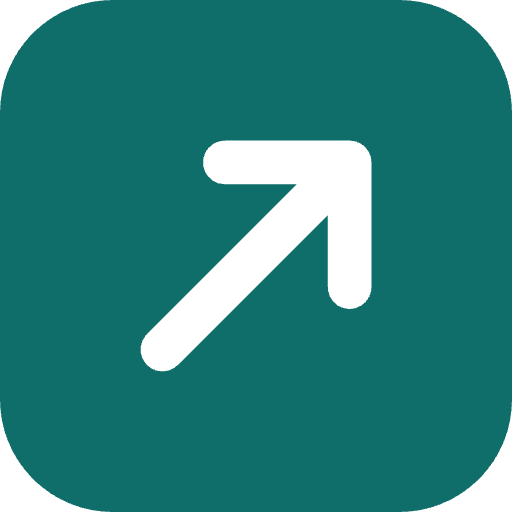
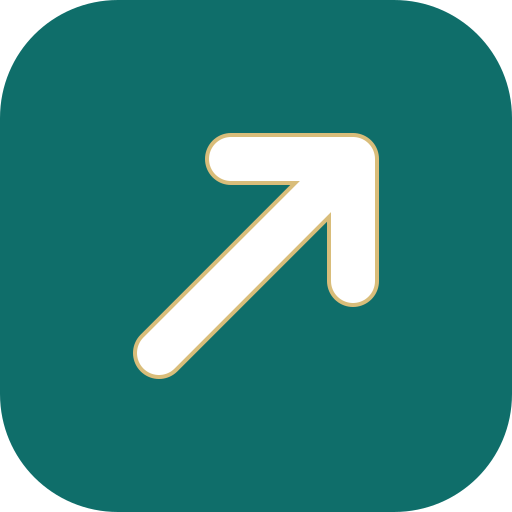
4.58.5

diff --git a/index.html b/index.html
@@ -5,7 +5,7 @@
   <meta name="viewport" content="width=device-width, initial-scale=1">
   <meta name="theme-color" content="#F7F6F2">
   <meta name="color-scheme" content="only light">
-<meta name="darkreader-lock"><meta name="darkreader-lock">
+  <meta name="darkreader-lock">
   <title>MyTrip · Plan, share &amp; split trips together</title>
   <link rel="preconnect" href="https://script.google.com" crossorigin>
   <link rel="preconnect" href="https://script.googleusercontent.com" crossorigin>
@@ -21,7 +21,7 @@
   <link rel="preconnect" href="https://fonts.gstatic.com" crossorigin>
   <link rel="preload" href="https://fonts.googleapis.com/css2?family=Plus+Jakarta+Sans:wght@400;500;600;700;800&amp;display=swap" as="style" onload="this.onload=null;this.rel='stylesheet'">
   <noscript><link href="https://fonts.googleapis.com/css2?family=Plus+Jakarta+Sans:wght@400;500;600;700;800&amp;display=swap" rel="stylesheet"></noscript>
-  <link rel="stylesheet" href="app.css?v=4.58.4">
+  <link rel="stylesheet" href="app.css?v=4.58.5">
 </head>
 <body>
   <a class="skip-link" href="#view">Skip to trip content</a>
@@ -49,7 +49,7 @@
             <header><i>◆</i><div><h3 id="sharedAccessTitle">Open one trip with shared access</h3><p>Use the trip code and shared trip password supplied for that trip.</p></div></header>
             <form id="joinForm" class="visible-shared-form"><div class="shared-field-grid"><label>Trip code<input name="tripId" id="joinTripId" placeholder="e.g. GOA26" autocomplete="off" required></label><label>Shared trip password<input name="pin" type="password" maxlength="64" autocomplete="current-password" placeholder="Enter shared password" required></label></div><button class="secondary" type="submit">Open this trip →</button></form>
           </section>
-          <div class="version-strip" aria-label="Application versions"><span>FE <b id="loginFrontendVersion">v4.58.4</b></span><span>BE <b id="loginBackendVersion">Not connected</b></span></div>
+          <div class="version-strip" aria-label="Application versions"><span>FE <b id="loginFrontendVersion">v4.58.5</b></span><span>BE <b id="loginBackendVersion">Not connected</b></span></div>
           <a class="cache-clear-button" id="clearAppCache" href="repair.html?auto=1">↻ Clear cache &amp; update</a>
           <details class="login-more-options"><summary>Other setup tools</summary><div>
             <button class="demo-button unified-demo" id="previewDemoButton" type="button">Preview dashboard demo</button>
@@ -63,7 +63,7 @@
   </section>
 
   <section class="account-hub hidden" id="accountHub">
-    <header class="account-hub-topbar"><a class="brand" href="#"><i>↗</i> mytrip</a><div><span id="hubAccountLabel">MY ACCOUNT</span><b id="hubVersion">FE v4.58.4 · BE —</b></div><time class="header-date-time" id="hubDateTime" aria-label="Current date and time">◆ Loading date and time…</time><span class="connection-status" id="hubConnectionStatus" role="status"><i></i><b>Online</b></span><button class="account-signout" id="hubSignOut" type="button">↪ Sign out</button></header>
+    <header class="account-hub-topbar"><a class="brand" href="#"><i>↗</i> mytrip</a><div><span id="hubAccountLabel">MY ACCOUNT</span><b id="hubVersion">FE v4.58.5 · BE —</b></div><time class="header-date-time" id="hubDateTime" aria-label="Current date and time">◆ Loading date and time…</time><span class="connection-status" id="hubConnectionStatus" role="status"><i></i><b>Online</b></span><button class="account-signout" id="hubSignOut" type="button">↪ Sign out</button></header>
     <main id="accountHubContent"></main>
   </section>
 
@@ -104,7 +104,7 @@
             <button type="button" id="textSizeUp" aria-label="Larger text">A+</button>
           </span>
           <span class="connection-status" id="dashboardConnectionStatus" role="status"><i></i><b>Online</b></span>
-          <span class="version-badge" id="dashboardVersion">FE v4.58.4 · BE —</span>
+          <span class="version-badge" id="dashboardVersion">FE v4.58.5 · BE —</span>
           <button class="all-trips" id="allTripsButton">◆ All trips</button>
           <span class="access-badge" id="accessBadge">ADMINISTRATOR</span>
           <div class="avatars" id="topAvatars"></div>
@@ -153,8 +153,8 @@
   <div class="toast hidden" id="toast" role="status"></div>
   <section class="print-area" id="printArea"></section>
 
-  <script defer src="config.js?v=4.58.4"></script>
-  <script defer src="app.js?v=4.58.4"></script>
+  <script defer src="config.js?v=4.58.5"></script>
+  <script defer src="app.js?v=4.58.5"></script>
 <nav class="mt-tabbar" id="mtTabbar" aria-label="Main" hidden>
       <button type="button" data-tab="overview" class="active"><i data-icon="overview"></i><span>Today</span></button>
       <button type="button" data-tab="itinerary"><i data-icon="itinerary"></i><span>Plan</span></button>

diff --git a/app.js b/app.js
@@ -6,8 +6,8 @@
   const savedUsernameStorageKey = "mytrip_saved_username_v2";
   const legacySavedLoginStorageKey = "mytrip_saved_account_login_v1";
   const obsoleteTabPasswordStorageKey = "mytrip_tab_password_v1";
-  const frontendVersion = "4.58.4";
-  const requiredBackendVersion = "4.15.0";
+  const frontendVersion = "4.58.5";
+  const requiredBackendVersion = "4.26.0";
   const validApiUrl = (value) => /^https:\/\/script\.google\.com\/macros\/s\/[A-Za-z0-9_-]+\/exec$/.test(String(value || "").trim());
   function readStoredApiUrl() { try { return localStorage.getItem(apiStorageKey) || ""; } catch { return ""; } }
   function saveStoredApiUrl(value) { try { localStorage.setItem(apiStorageKey, value); } catch {} }
@@ -3404,7 +3404,7 @@
   }
 
   function showBackendSetup(afterConnect) {
-    showModal("Connect Google backend", `<form class="modal-form" id="backendForm"><div class="setup-note"><i>G</i><div><b>MyTrip backend v4.6.0 account build required</b><p>Replace Apps Script <code>Code.gs</code>, run <code>setupMyTrip()</code>, and deploy a <b>New version</b>. This enables common login, traveller trip-creation permission, the Drive photo gallery and the <code>StickyNoteDiary</code> Google Sheet.</p></div></div><label>Google Apps Script Web App URL<input name="apiUrl" type="url" value="${esc(apiUrl)}" placeholder="https://script.google.com/macros/s/…/exec" autocomplete="url" required></label><p class="form-help">Use the deployed <b>/exec</b> URL, not the testing <b>/dev</b> URL. Account login, traveller credentials, photo gallery, version and Sticky Note Diary capabilities are checked before saving.</p><a class="setup-guide-link" href="SETUP-GUIDE.md" target="_blank" rel="noreferrer">Open the Google setup guide ↗</a><div class="form-actions"><button type="button" data-cancel>Cancel</button><button type="submit">Test and connect</button></div></form>`);
+    showModal("Connect Google backend", `<form class="modal-form" id="backendForm"><div class="setup-note"><i>G</i><div><b>MyTrip backend v${requiredBackendVersion} or newer required</b><p>Replace Apps Script <code>Code.gs</code>, run <code>setupMyTrip()</code>, and deploy a <b>New version</b>. This enables common login, traveller trip-creation permission, the Drive photo gallery, settlement records and the <code>StickyNoteDiary</code> Google Sheet.</p></div></div><label>Google Apps Script Web App URL<input name="apiUrl" type="url" value="${esc(apiUrl)}" placeholder="https://script.google.com/macros/s/…/exec" autocomplete="url" required></label><p class="form-help">Use the deployed <b>/exec</b> URL, not the testing <b>/dev</b> URL. Account login, traveller credentials, photo gallery, settlement, version and Sticky Note Diary capabilities are checked before saving.</p><a class="setup-guide-link" href="SETUP-GUIDE.md" target="_blank" rel="noreferrer">Open the Google setup guide ↗</a><div class="form-actions"><button type="button" data-cancel>Cancel</button><button type="submit">Test and connect</button></div></form>`);
     const form = $("#backendForm");
     form.addEventListener("submit", async (event) => {
       event.preventDefault();

diff --git a/app.css b/app.css
@@ -2821,3 +2821,31 @@ html body .settle-allclear i{font-style:normal;display:grid;place-items:center;w
 html body .settle-allclear b{display:block;font-size:15px;letter-spacing:.08em}
 html body .settle-allclear small{color:rgba(255,255,255,.88);font-size:12px}
 html body .settle-summary{margin:10px 0 0;color:#17744F;font-weight:700}
+
+/* ---- MyTrip premium mark: white arrow with champagne-gold edge ---- */
+:root{--mytrip-champagne:#d9bd7a;--mytrip-champagne-soft:#ead9ad}
+html body .brand i,
+html body .mobile-brand i,
+html body .mobile-logo i,
+html body .access-art>.brand i,
+html body .account-hub-topbar>.brand i{
+  color:#fff!important;
+  font-family:Arial,"Helvetica Neue",sans-serif!important;
+  font-weight:900!important;
+  -webkit-text-stroke:.7px var(--mytrip-champagne-soft);
+  paint-order:stroke fill;
+  text-shadow:0 0 1px var(--mytrip-champagne),0 2px 5px rgba(84,60,20,.28)!important;
+}
+html body .access-art>.brand i{-webkit-text-stroke:.95px var(--mytrip-champagne-soft)}
+@supports not (-webkit-text-stroke:1px #000){
+  html body .brand i,
+  html body .mobile-brand i,
+  html body .mobile-logo i,
+  html body .access-art>.brand i,
+  html body .account-hub-topbar>.brand i{filter:drop-shadow(0 0 1px var(--mytrip-champagne)) drop-shadow(0 2px 2px rgba(84,60,20,.24))}
+}
+@media(max-width:520px){
+  html body .brand i,
+  html body .mobile-brand i,
+  html body .mobile-logo i{-webkit-text-stroke:.6px var(--mytrip-champagne-soft)}
+}

diff --git a/sw.js b/sw.js
@@ -1,11 +1,12 @@
 "use strict";
 
-const STATIC_CACHE = "mytrip-static-v4.58.4";
+const STATIC_CACHE = "mytrip-static-v4.58.5";
 const VERSIONED_ASSETS = [
   "./index.html",
-  "./app.css?v=4.58.4",
-  "./app.js?v=4.58.4",
-  "./favicon.svg", "./manifest.webmanifest", "./icon-192.png", "./icon-512.png",
+  "./app.css?v=4.58.5",
+  "./app.js?v=4.58.5",
+  "./favicon.svg", "./manifest.webmanifest", "./apple-touch-icon.png",
+  "./icon-192.png", "./icon-512.png", "./icon-maskable-512.png",
   "./repair.html"
 ];
 

diff --git a/DEPLOY-INSTRUCTIONS.md b/DEPLOY-INSTRUCTIONS.md
@@ -1,6 +1,6 @@
-# MyTrip Dashboard 4.7.0
+# MyTrip Dashboard 4.58.5
 
-This package keeps the exact versions **FE v4.7.0** and **BE v4.6.0**. It adds the unified account login, all-trips account dashboard, collapsible sticky notes, Sticky Note Diary, colourful Experiences tab, row-based expense controls, the date-aware **Today’s Journey** Overview, and the final 10/10 usability polish.
+This package contains **FE v4.58.5** and **BE v4.26.0**. It includes unified account login, the all-trips account dashboard, collapsible sticky notes, Sticky Note Diary, colourful Experiences, row-based expense controls, Today’s Journey, settlements, photo tools and the refined MyTrip champagne-gold arrow identity.
 
 Existing trips, travellers, assignments, plans, places, expenses, experiences and passwords are preserved.
 
@@ -61,7 +61,7 @@ Existing trips, travellers, assignments, plans, places, expenses, experiences an
 
 ## Step 1 — Update Google Apps Script
 
-The supplied backend must be deployed even if the live page already reports **Backend v4.6.0**. The visible version stays unchanged, but the supplied build adds the unified account-login capability and Sticky Note Diary operations.
+Deploy the supplied backend when the live page reports an older version than **Backend v4.26.0**, or when a required backend capability is missing.
 
 1. Open the existing Apps Script project used by MyTrip.
 2. Replace the entire `Code.gs` with `backend/Code.gs` from this ZIP.
@@ -69,7 +69,7 @@ The supplied backend must be deployed even if the live page already reports **Ba
 4. Choose **Deploy → Manage deployments → Edit**.
 5. Select **New version**, then click **Deploy**.
 6. Keep access as **Anyone** and keep the same `/exec` URL.
-7. Open `YOUR-EXEC-URL?action=ping` and confirm it contains `"version":"4.6.0"`, `"accountLogin":true`, `"stickyNoteDiary":true`, `"travellerCredentialEdit":true`, `"administratorLoginEdit":true`, `"travellerTripCreation":true`, `"travellerTripCreationQuota":true`, and `"tripPhotoGallery":true`.
+7. Open `YOUR-EXEC-URL?action=ping` and confirm it contains `"version":"4.26.0"`, `"accountLogin":true`, `"stickyNoteDiary":true`, `"travellerCredentialEdit":true`, `"administratorLoginEdit":true`, `"travellerTripCreation":true`, `"travellerTripCreationQuota":true`, `"tripPhotoGallery":true`, and `"settlementRecords":true`.
 
 ## Step 2 — Update GitHub Pages
 
@@ -84,7 +84,7 @@ Replace these repository-root files:
 
 Keep the existing `config.js` so the connected `/exec` URL is unchanged. Wait about two minutes, open `repair.html` once to remove any older broad service worker, then reopen the site. The new controlled speed cache registers automatically after the page opens.
 
-Deploy the supplied `backend/Code.gs` for Administrator-controlled traveller username changes, even if the visible backend badge already says `4.6.0`. The visible version remains unchanged.
+Deploy the supplied `backend/Code.gs` whenever the live backend is older than `4.26.0` or the ping check reports a missing capability.
 
 ## Administrator username/password recovery
 
@@ -115,7 +115,7 @@ The username must be 3–40 characters, start with a letter or number, and use o
 5. Sign in with a Traveller ID and its personal password and confirm only assigned trips appear.
 6. Confirm **Sign out** is the rightmost control in the top header on desktop and mobile.
 7. As Administrator, open a Traveller profile, select **Edit login**, and verify the new username/password works.
-8. Confirm **FE v4.7.0 · BE v4.6.0** and the automatically updating date/time appear inside the app.
+8. Confirm **FE v4.58.5 · BE v4.26.0** and the automatically updating date/time appear inside the app.
 9. Open Expenses and test View, Row edit, Edit and Administrator Delete.
 10. Complete a sticky note and confirm a row appears in `StickyNoteDiary`.
 11. Confirm the colourful Experiences tab is separate from Itinerary.

diff --git a/SETUP-GUIDE.md b/SETUP-GUIDE.md
@@ -1,6 +1,6 @@
-# MyTrip Google Backend 4.6.0 Account Setup
+# MyTrip Google Backend 4.26.0 Setup
 
-The supplied backend is required even when the existing deployment already reports **v4.6.0**. This build adds:
+The supplied backend is required when the existing deployment is older than **v4.26.0** or reports a missing capability. This build includes:
 
 - One common username/password login that identifies the account automatically
 - One all-trips dashboard for each signed-in account
@@ -23,7 +23,7 @@ Existing data and passwords are preserved.
 7. Choose **Deploy → Manage deployments → Edit**.
 8. Select **New version** and click **Deploy**.
 9. Keep web-app access as **Anyone** and retain the same `/exec` URL.
-10. Test `YOUR-EXEC-URL?action=ping`. It must return backend `4.6.0` with `accountLogin: true`, `stickyNoteDiary: true`, `travellerCredentialEdit: true`, `administratorLoginEdit: true`, `travellerTripCreation: true`, `travellerTripCreationQuota: true` and `tripPhotoGallery: true`.
+10. Test `YOUR-EXEC-URL?action=ping`. It must return backend `4.26.0` with `accountLogin: true`, `stickyNoteDiary: true`, `travellerCredentialEdit: true`, `administratorLoginEdit: true`, `travellerTripCreation: true`, `travellerTripCreationQuota: true`, `tripPhotoGallery: true` and `settlementRecords: true`.
 
 ## Trip creation and photo controls
 
